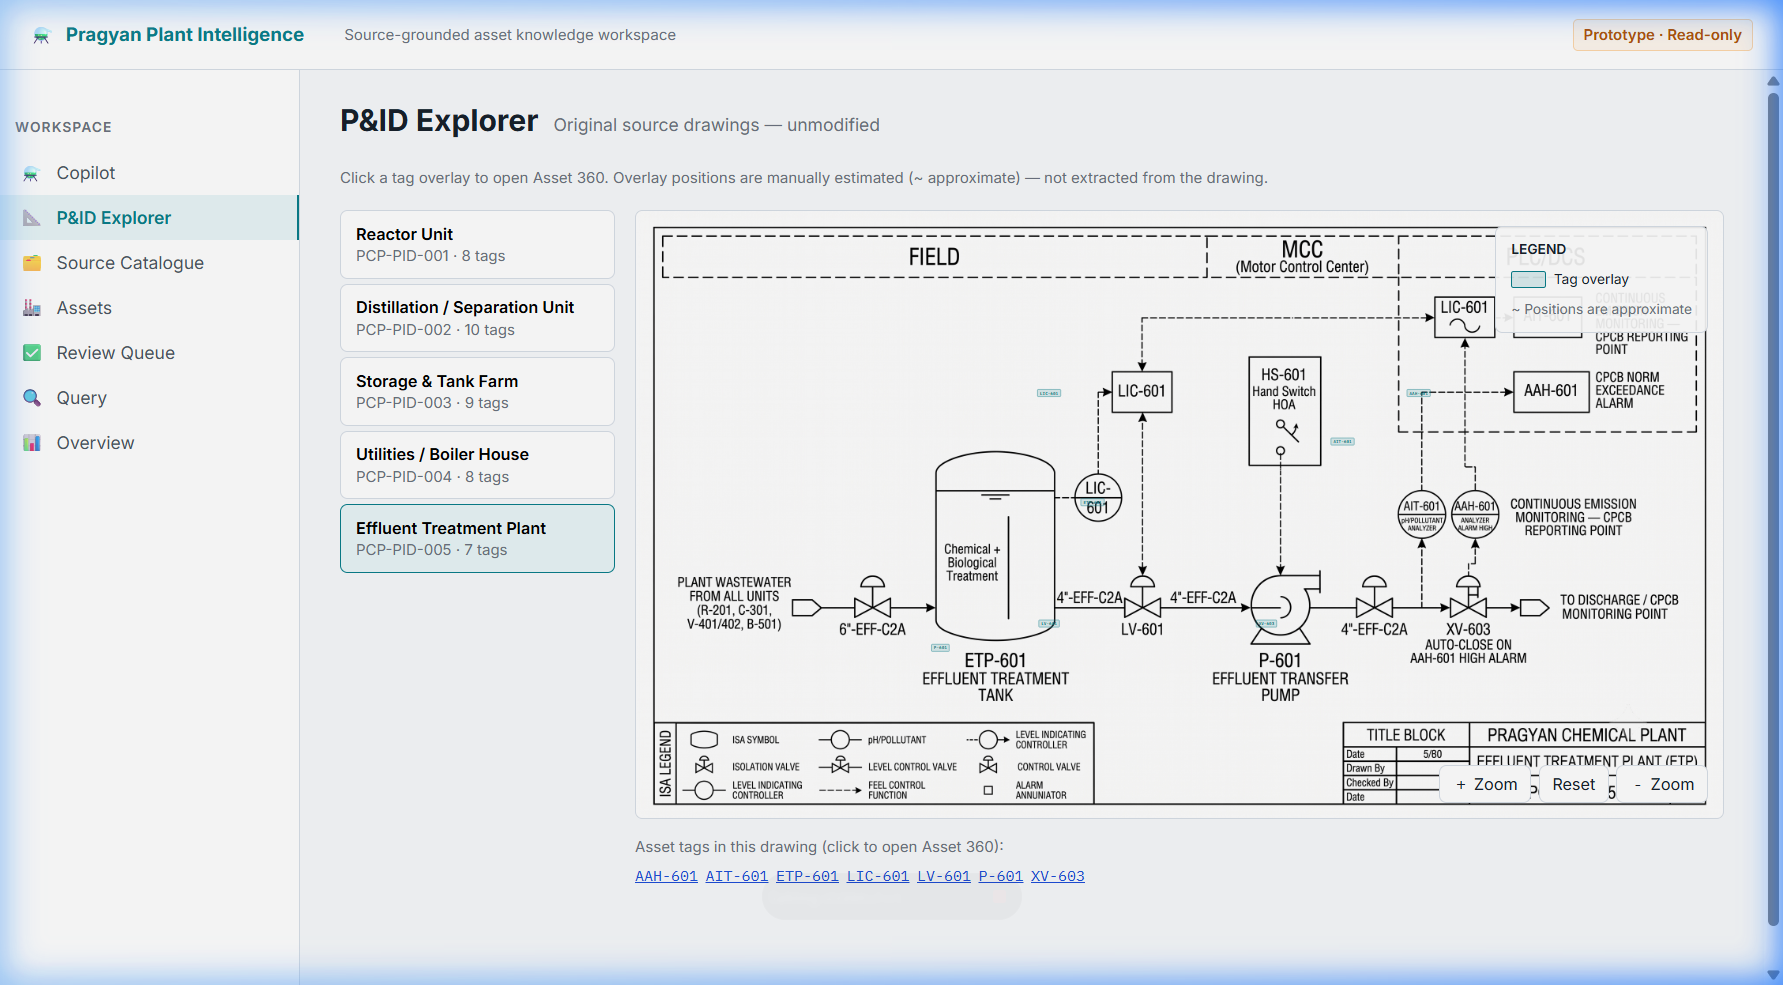
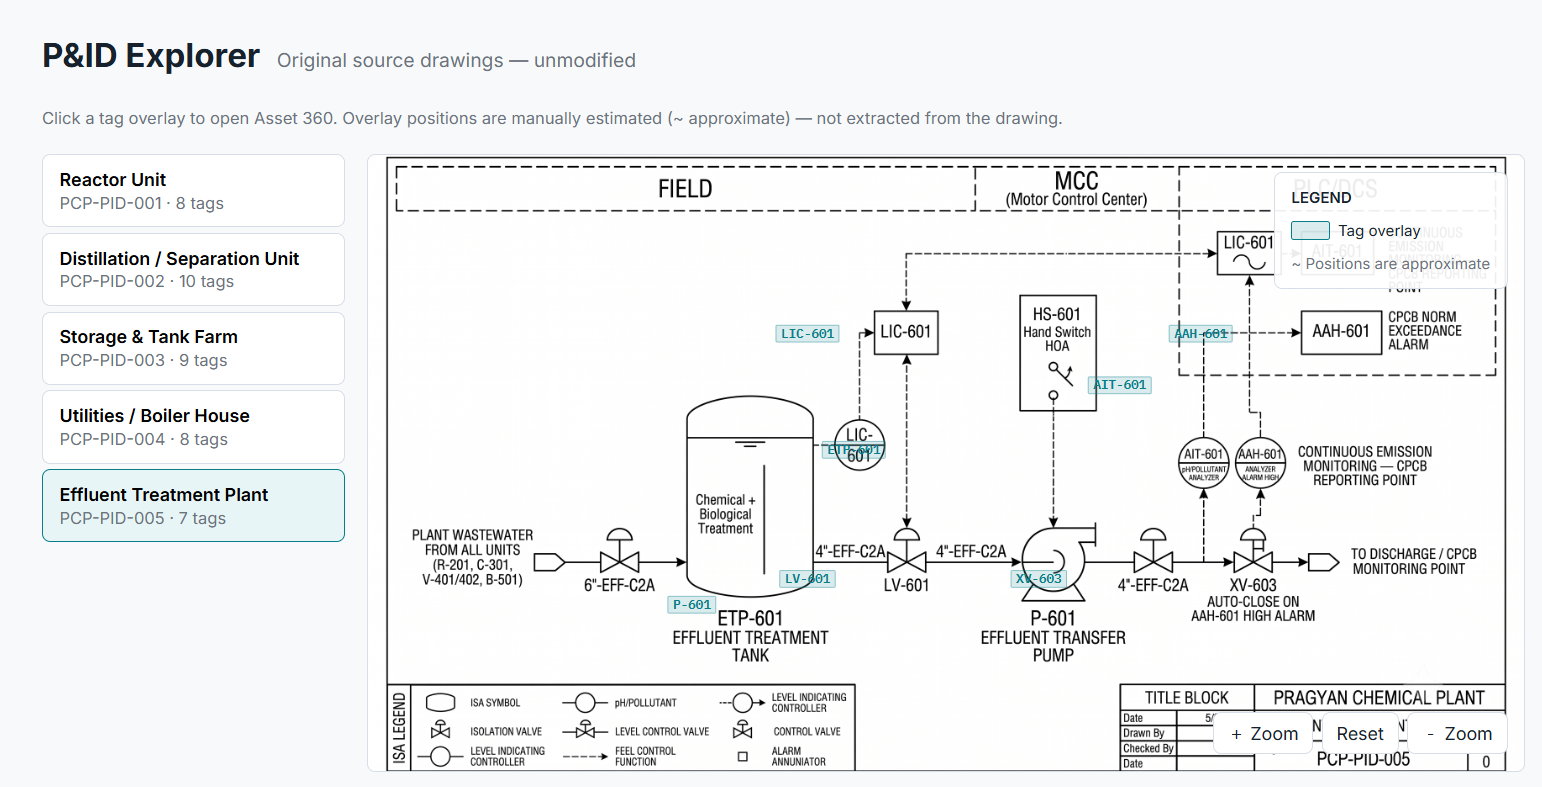
Landing Page bug fixed

Changed region(s): [[0.0, 0.0, 1.0, 1.0], [0.6537, 0.5184, 0.6848, 0.5489], [0.5914, 0.2745, 0.6226, 0.305]]

diff --git a/frontend/src/index.css b/frontend/src/index.css
@@ -1129,7 +1129,7 @@ code, .mono {
 .landing-inline-link { gap: 7px; width: fit-content; margin-top: 24px; color: var(--teal); font-size: 14px; font-weight: 650; text-decoration: none; }
 .landing-inline-link:hover, .landing-inline-link:focus-visible { color: #066d78; text-decoration: underline; }
 .landing-preview-image-wrap { border: 1px solid var(--border); background: var(--surface); overflow: hidden; }
-.landing-preview-image { display: block; width: 100%; height: auto; aspect-ratio: 16 / 10; object-fit: cover; object-position: top; }
+.landing-preview-image { display: block; width: 100%; height: auto; object-fit: contain; object-position: top; }
 .landing-evidence-path { margin-top: 24px; color: var(--text-secondary); font-family: var(--font-mono); font-size: 12px; }
 .landing-evidence-path span { color: var(--teal); margin: 0 7px; }
 
@@ -1209,7 +1209,7 @@ code, .mono {
   .landing-preview-tabs { width: 100%; overflow-x: auto; }
   .landing-preview-tabs button { flex: 0 0 auto; }
   .landing-preview-stage { gap: 24px; }
-  .landing-preview-image { aspect-ratio: 4 / 3; }
+
   .landing-capability-grid { grid-template-columns: 1fr; }
   .landing-capability { min-height: 0; }
   .landing-field-list div { grid-template-columns: 1fr; gap: 4px; }

diff --git a/frontend/src/pages/LandingPage.jsx b/frontend/src/pages/LandingPage.jsx
@@ -78,7 +78,6 @@ export default function LandingPage() {
               <Link className="landing-button landing-button-primary" to="/overview">Open Workspace <ArrowRight size={18} aria-hidden="true" /></Link>
               <Link className="landing-button landing-button-secondary" to="/assets/ETP-601">Explore Asset Intelligence <ChevronRight size={18} aria-hidden="true" /></Link>
             </div>
-            <p className="landing-trust-line">Source-grounded answers. Inspectable evidence. Engineer review.</p>
           </div>
         </section>
 
